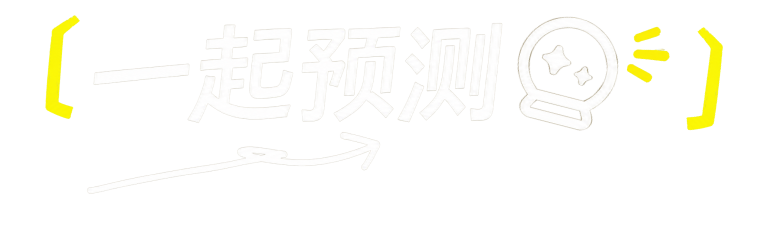
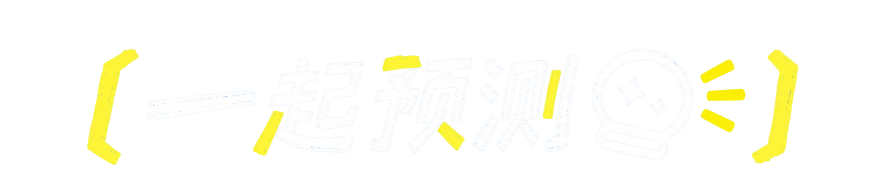
Update prediction section artwork

diff --git a/variant/index.html b/variant/index.html
@@ -27,7 +27,7 @@
     <section class="unified-top-card" aria-label="人物预测">
       <img id="unified-top-image" src="./assets/unified-top-1.webp" width="351" height="399" style="display:block;width:100%;height:auto;max-width:100%" alt="许飞与厉娜预测卡" />
     </section>
-    <img class="section-title first" src="./assets/together-title.png" width="775" height="236" alt="一起预测" />
+    <img class="section-title first" src="./assets/together-title.png?v=26" width="880" height="192" alt="一起预测" />
     <nav class="filter prediction-filter"><button class="active" data-filter="all">全部</button><button data-filter="open">进行中</button><button data-filter="closed">已封盘</button><button data-filter="done">已开奖</button></nav>
     <section id="predictions" class="predictions"></section>
     <button class="more" type="button">查看更多预测内容</button>
